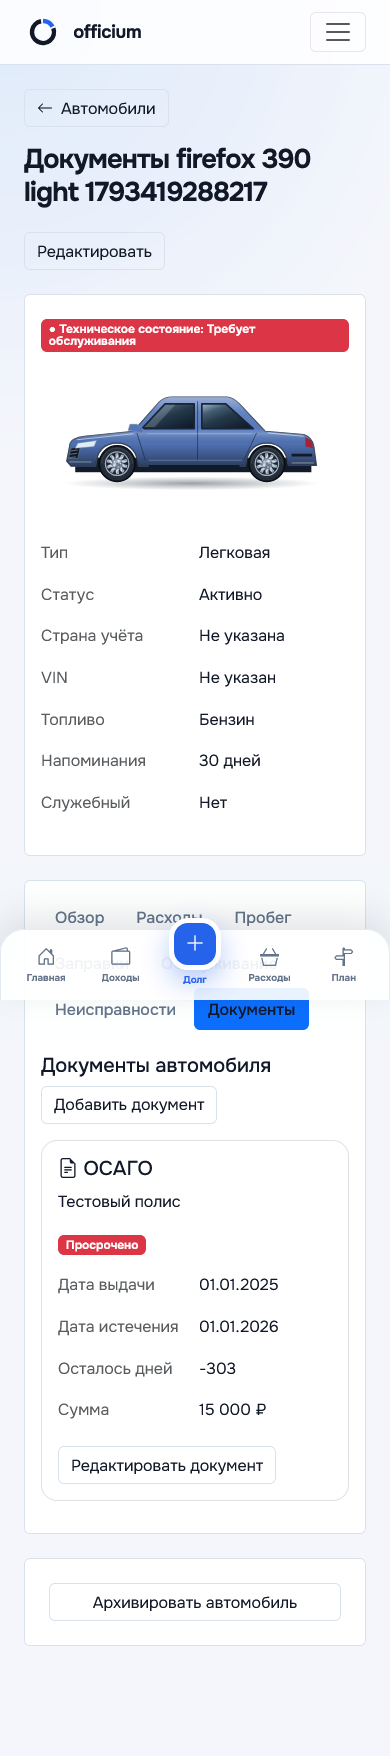
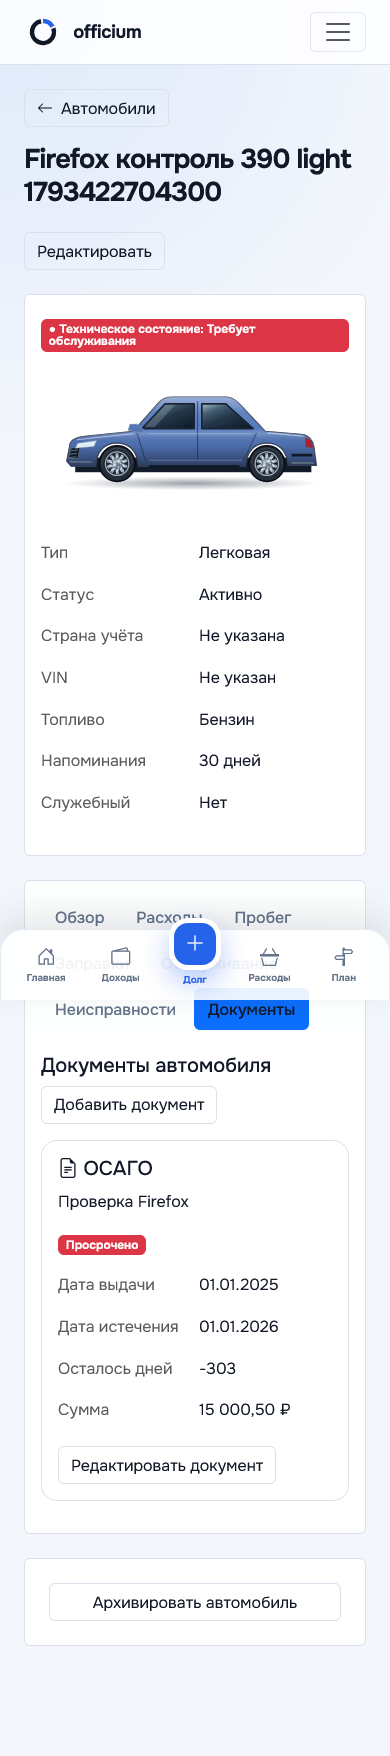
Проверить границы сроков и согласованность связанных трат

Changed region(s): [[0.0615, 0.0615, 0.8923, 0.123], [0.1538, 0.6765, 0.4615, 0.7073], [0.6462, 0.7995, 0.7077, 0.8303]]

diff --git a/tests/e2e/vehicle-documents.spec.js b/tests/e2e/vehicle-documents.spec.js
@@ -19,6 +19,8 @@ for(const width of [390,1440]) for(const theme of ['light','dark']) {
   await form.locator('[name=issued_date]').fill('2025-01-01');
   await form.locator('[name=expires_at]').fill('2026-01-01');
   await form.locator('[name=amount]').fill('15000');
+  await form.locator('[name=amount]').press('Tab');
+  await expect(form.locator('[name=amount]')).toHaveValue('15 000,00');
   await form.getByRole('button',{name:'Сохранить документ'}).click({noWaitAfter:true});
   await expect(page.locator('.vehicle-document-card')).toContainText('Тестовый полис');
   await expect(page.locator('.vehicle-document-card .badge')).toHaveText('Просрочено');

diff --git a/tests/test_vehicle_documents.py b/tests/test_vehicle_documents.py
@@ -78,3 +78,31 @@ class VehicleDocumentTests(test_vehicle_service.VehicleServiceTestCase):
         self.assertEqual(documents.expiring_soon(self.other),[])
         self.login()
         self.assertIn(vehicle.name.encode(), self.client.get('/vehicles?attention=1').data)
+
+    def test_expiring_query_boundaries_and_archive(self):
+        vehicle = self.vehicle()
+        day = vehicles.today()
+        rows = [self.save(vehicle, kind=kind, issued_date='', expires_at=(day+timedelta(days=days)).isoformat())
+                for kind, days in [('osago', 0), ('kasko', 14), ('sts', 15), ('license', -1)]]
+        self.assertEqual([row.id for row in documents.expiring_soon(self.owner)], [rows[0].id, rows[1].id])
+        vehicles.archive_vehicle(self.owner, vehicle.id, 'sold')
+        self.assertEqual(documents.expiring_soon(self.owner), [])
+
+    def test_edit_document_from_another_vehicle_is_not_found(self):
+        first = self.vehicle()
+        second = vehicles.create_vehicle(self.owner, dict(name='Второй автомобиль'))
+        row = self.save(first)
+        with self.assertRaises(NotFound):
+            documents.save_document(self.owner, second.id, dict(kind='pts'), row.id)
+        self.assertEqual(VehicleDocument.query.one().vehicle_id, first.id)
+        self.assertEqual(VehicleDocument.query.one().kind, 'osago')
+
+    def test_formatted_money_and_missing_spend_amount_rollback(self):
+        from decimal import Decimal
+        vehicle = self.vehicle()
+        row = self.save(vehicle, amount='15 000,50')
+        self.assertEqual(row.amount, Decimal('15000.50'))
+        with self.assertRaises(ValueError):
+            self.save(vehicle, kind='kasko', amount='', create_expense='on')
+        self.assertEqual(VehicleDocument.query.count(), 1)
+        self.assertEqual(Expense.query.count(), 0)

diff --git a/docs/qa/vehicles-stage5/manual.md b/docs/qa/vehicles-stage5/manual.md
@@ -46,10 +46,45 @@
 
 - Во встроенном браузере фактическая ширина узкого окна — 500 px, несмотря на запрос 390 px. Этот прогон не подтверждает ручную проверку ровно на 390 px. Автоматические снимки 390/1440 px находятся в основном отчёте.
 - Полная матрица ручных проверок Firefox/WebKit не выполнена: встроенный браузер не позволяет переключить движок. Ранее WebKit прошёл четыре автоматических сценария; полный успешный прогон Firefox не подтверждён.
-- Отключение флага, подмена POST с чужим ID, ограничения схемы, откат транзакции, миграции и точные границы 0/14/15 дней подтверждены серверными тестами, но не являются ручными UI-проверками этого прогона.
+- Отключение флага, подмена POST с чужим ID, ограничения схемы, откат транзакции, миграции подтверждены серверными тестами; граничные сроки 0/14/15 дней дополнительно проверены вручную в продолжении ниже.
 
 ## Снимки
 
 - [Поле суммы](manual-amount-field.png)
 - [Настольная форма, тёмная тема](manual-amount-1440-dark.png)
 - [Узкая форма, светлая тема](manual-amount-mobile-light.png)
+
+## Продолжение проверки — 31.10.2026
+
+На новой изолированной базе через UI проверены дополнительные сценарии:
+
+| Сценарий | Результат |
+|---|---|
+| Срок через 15 дней (15.11.2026) | В порядке; осталось 15 дней |
+| Срок через 14 дней (14.11.2026) | Скоро истекает; автомобиль требует внимания |
+| Срок сегодня (31.10.2026) | Просрочено; осталось 0 дней; автомобиль требует обслуживания |
+| Ошибка хронологии при создании | Документ не создан, введённые поля потеряны |
+| Ошибка хронологии при редактировании | Сохранённая запись не изменена, введённые исправления потеряны |
+| Флаг создания траты без суммы | Сообщение «Укажите сумму для создания траты», документ не создан |
+| Вставка суммы 2 500,75 с неразрывным пробелом | Сохраняется как 2 500,75 ₽ |
+| Техосмотр со сроком через 30 дней | В порядке |
+| Сортировка нескольких документов | Сегодня, завтра, через 30 дней, затем бессрочный |
+| Название <b>Проверка текста</b> | Показано как обычный текст, разметка не применяется |
+| Изменение суммы документа со связанной тратой | Документ стал 2 000 ₽, трата осталась 1 000 ₽ |
+
+### Дополнительное расхождение
+
+Сумма документа и связанной траты изменяются независимо. Воспроизведение: создать документ с суммой 1 000 и флагом создания личной траты; отредактировать сумму документа на 2 000; открыть связанную трату — сумма 1 000,00. Требуется определить ожидаемое поведение: запрет расхождения, явное предупреждение либо согласованное редактирование. Автоматически менять уже созданную трату в ходе тестирования не стали.
+
+Доказательства: [документ — 2 000 ₽](manual-linked-document-2000.png), [трата — 1 000 ₽](manual-linked-expense-1000.png).
+
+### Дополнительные серверные проверки
+
+36 тестов успешно, включая три новых сценария: окно expiring_soon на границах 0/14/15 дней и исключение архива; запрет правки документа другого автомобиля; сумма с разделителями и откат при флаге создания траты без суммы. Проверки выполнены командой `.venv/Scripts/python -m unittest discover -s tests -p test_vehicle_documents.py -q`.
+
+### Уточнение по Firefox
+
+- Отдельный smoke-test на пустой странице завершился успешно, включая закрытие браузера (около 27 секунд суммарно).
+- Открытие карточки документов без создания записи, снимок и закрытие Firefox тоже завершились (около 20 секунд). [Диагностический снимок](firefox-diagnostic.png).
+- В отдельном сценарии Firefox 390 px / светлая тема подтверждены создание документа, сумма 15 000,50, статус «Просрочено», соответствие темы, фактическая ширина 390 и отсутствие горизонтального переполнения.
+- Последующие сценарии зависают как в штатном запуске, так и при прямом запуске нескольких вариантов. Увеличение времени и повторное использование сессии проблему не устранили. Полную матрицу Firefox считать пройденной нельзя. Причина зависания не установлена; прежнее предположение исключительно о завершении тестового контекста не подтверждено.
